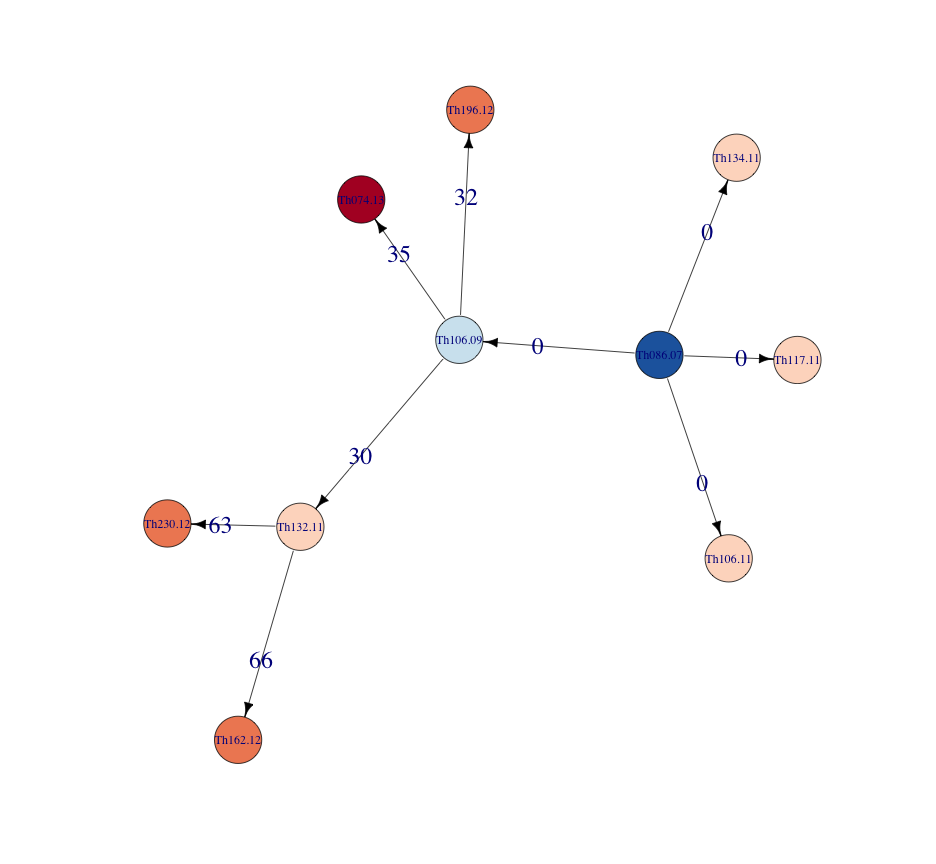
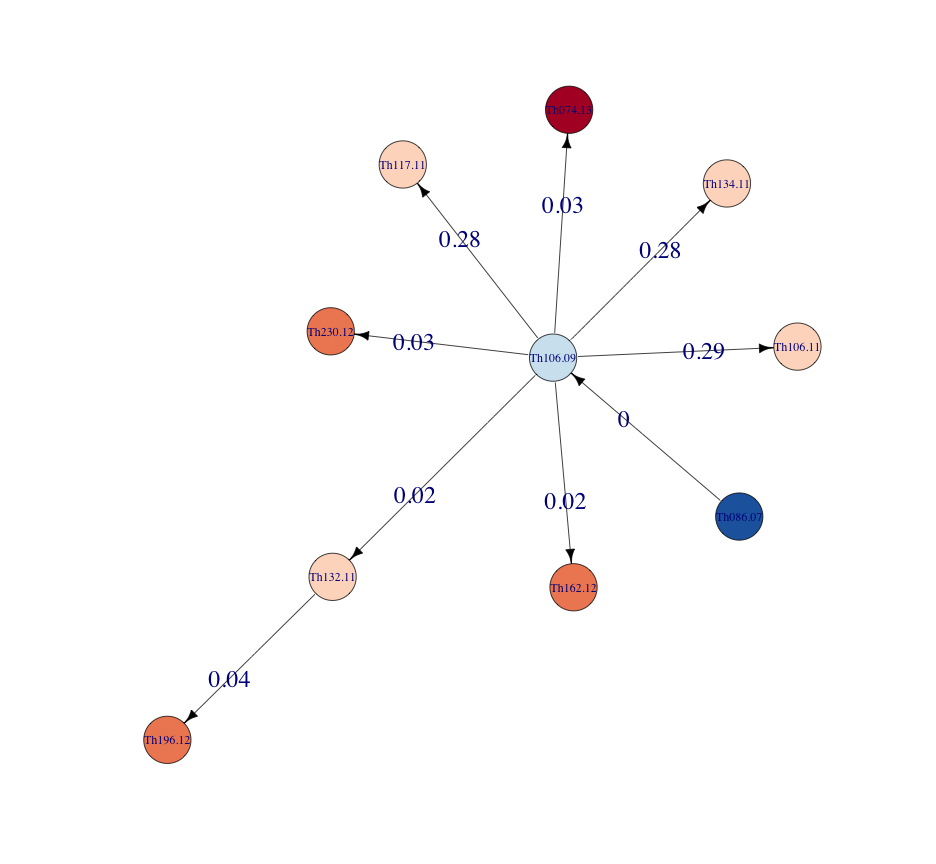
adding network plots with homoplasies

diff --git a/reports/160513_thies_homoplasies_nets/plotHaplotypes.md b/reports/160513_thies_homoplasies_nets/plotHaplotypes.md
@@ -237,17 +237,33 @@ ggplot(genotabNS,aes(x=I,y=indv,colour=HP_INDEL,group=pos,shape=type)) + geom_po
 
 
 ```r
-#SNP net homoplasies
-snpnet <- read.graph("clade29.SNP.graphml.HPLSY.xml",format="graphml")
-plot(snpnet,edge.color="black",edge.label=E(snpnet)$homoplasy_count,edge.label.cex=2)
+opts_chunk$set(fig.width=9, fig.height=9)
 ```
 
-![plot of chunk unnamed-chunk-7](figure/unnamed-chunk-7-1.png)
+```r
+#SNP net homoplasies
+snpnet <- read.graph("clade29.SNP.graphml.HPLSY.xml",format="graphml")
+plot(snpnet,edge.color="black",edge.label=E(snpnet)$homoplasy_count,edge.label.cex=1.5)
+```
+
+![plot of chunk unnamed-chunk-8](figure/unnamed-chunk-8-1.png)
+
+```r
+plot(snpnet,edge.color="black",edge.label=round(E(snpnet)$homoplasy_percent,2),edge.label.cex=1.5)
+```
+
+![plot of chunk unnamed-chunk-8](figure/unnamed-chunk-8-2.png)
 
 ```r
 #INDEL net homoplasies
 indelnet <- read.graph("clade29.INDEL.graphml.HPLSY.xml",format="graphml")
-plot(indelnet,edge.color="black",edge.label=E(indelnet)$homoplasy_count,edge.label.cex=2)
+plot(indelnet,edge.color="black",edge.label=E(indelnet)$homoplasy_count,edge.label.cex=1.5)
 ```
 
-![plot of chunk unnamed-chunk-7](figure/unnamed-chunk-7-2.png)
+![plot of chunk unnamed-chunk-8](figure/unnamed-chunk-8-3.png)
+
+```r
+plot(indelnet,edge.color="black",edge.label=round(E(indelnet)$homoplasy_percent,2),edge.label.cex=1.5)
+```
+
+![plot of chunk unnamed-chunk-8](figure/unnamed-chunk-8-4.png)
